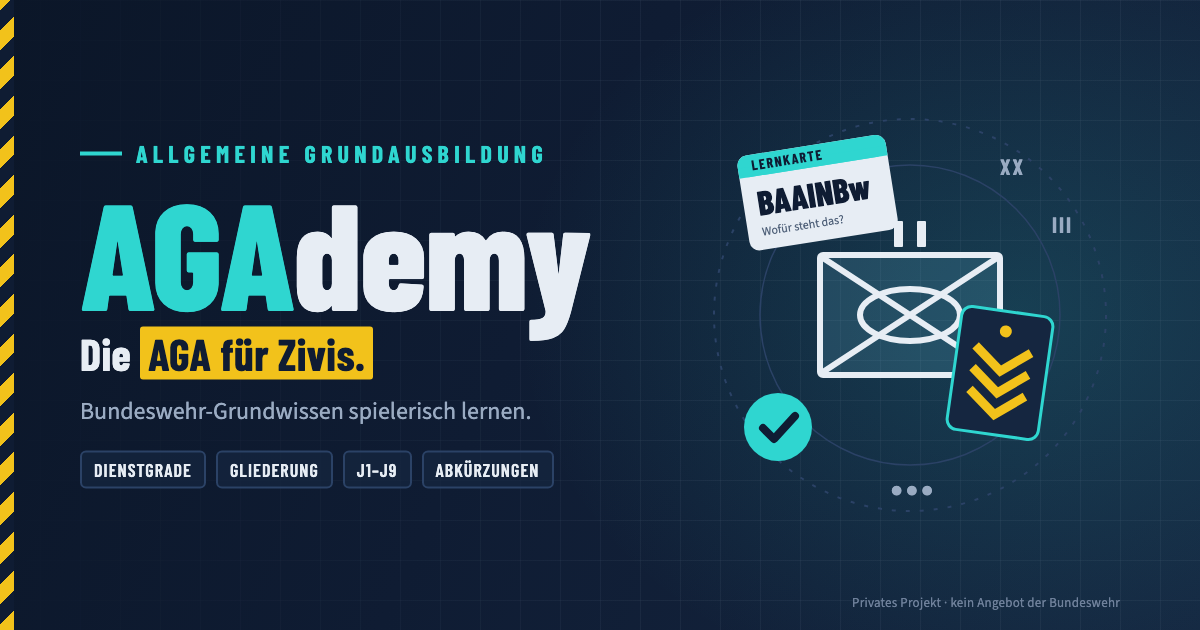
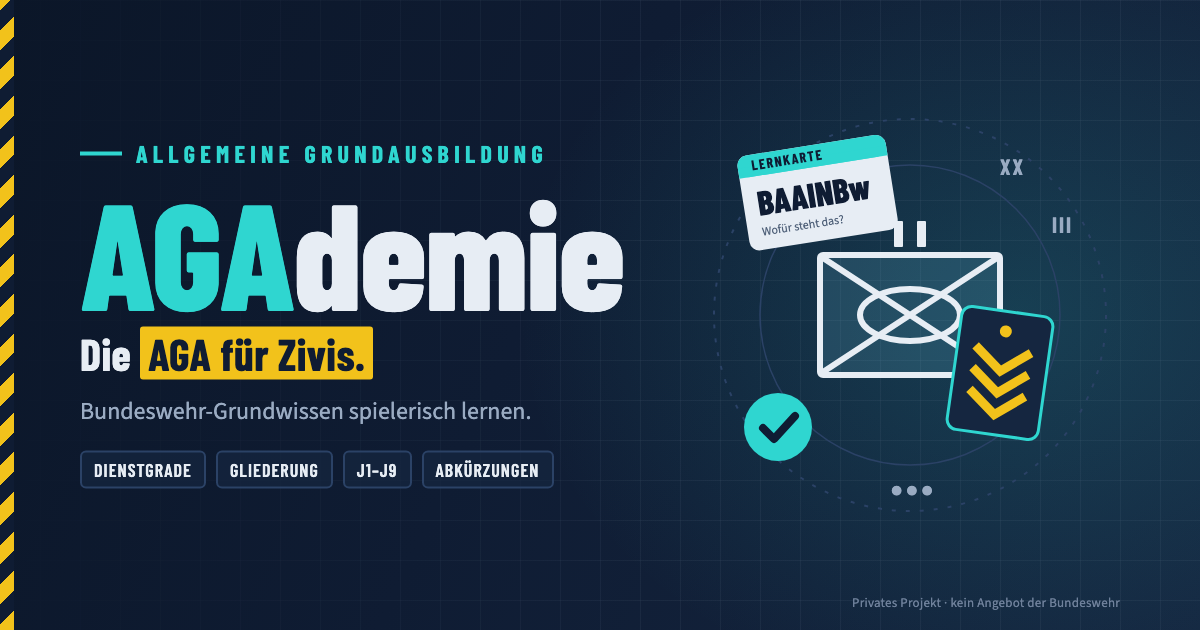
App in AGAdemie umbenennen

Changed region(s): [[0.4317, 0.3016, 0.5242, 0.5429]]

diff --git a/index.html b/index.html
@@ -3,27 +3,27 @@
 <head>
 <meta charset="utf-8">
 <meta name="viewport" content="width=device-width, initial-scale=1, viewport-fit=cover">
-<title>AGAdemy</title>
+<title>AGAdemie</title>
 <meta name="description" content="Privates Projekt: Bundeswehr-Grundwissen für Zivilisten. Kein Angebot der Bundeswehr oder des BMVg.">
 <meta name="theme-color" content="#0f1c33">
 <link rel="icon" href="icons/favicon.ico" sizes="48x48">
 <link rel="icon" href="icons/favicon.svg" type="image/svg+xml">
 <link rel="apple-touch-icon" href="icons/apple-touch-icon.png">
 <link rel="manifest" href="icons/site.webmanifest">
-<meta name="apple-mobile-web-app-title" content="AGAdemy">
+<meta name="apple-mobile-web-app-title" content="AGAdemie">
 <meta name="mobile-web-app-capable" content="yes">
 <meta property="og:type" content="website">
-<meta property="og:site_name" content="AGAdemy">
+<meta property="og:site_name" content="AGAdemie">
 <meta property="og:url" content="https://florianwilhelm.info/agademy/">
-<meta property="og:title" content="AGAdemy: Die AGA für Zivis">
+<meta property="og:title" content="AGAdemie: Die AGA für Zivis">
 <meta property="og:description" content="Bundeswehr-Grundwissen spielerisch lernen. Privates Projekt, kein Angebot der Bundeswehr.">
 <meta property="og:image" content="https://florianwilhelm.info/agademy/social/banner-1200x630.png">
 <meta property="og:image:width" content="1200">
 <meta property="og:image:height" content="630">
-<meta property="og:image:alt" content="AGAdemy: Die AGA für Zivis. Bundeswehr-Grundwissen spielerisch lernen.">
+<meta property="og:image:alt" content="AGAdemie: Die AGA für Zivis. Bundeswehr-Grundwissen spielerisch lernen.">
 <meta property="og:locale" content="de_DE">
 <meta name="twitter:card" content="summary_large_image">
-<meta name="twitter:title" content="AGAdemy: Die AGA für Zivis">
+<meta name="twitter:title" content="AGAdemie: Die AGA für Zivis">
 <meta name="twitter:description" content="Bundeswehr-Grundwissen spielerisch lernen. Privates Projekt, kein Angebot der Bundeswehr.">
 <meta name="twitter:image" content="https://florianwilhelm.info/agademy/social/banner-1200x630.png">
 <link rel="preload" href="fonts/source-sans-3.woff2" as="font" type="font/woff2" crossorigin>
@@ -205,7 +205,7 @@ nav.tabbar button[aria-current="page"]{color:var(--ink);box-shadow:inset 0 3px 0
 <body>
 <div class="app">
   <header class="top">
-    <div style="flex:1"><h1>AGAdemy <span class="ver" id="ver"></span></h1><p>Die AGA für Zivis: Bundeswehr-Grundwissen</p></div>
+    <div style="flex:1"><h1>AGAdemie <span class="ver" id="ver"></span></h1><p>Die AGA für Zivis: Bundeswehr-Grundwissen</p></div>
     <div class="tbtns"><button class="helpbtn inst" id="instBtn" aria-label="App installieren" title="App installieren" hidden><svg viewBox="0 0 24 24" width="22" height="22" aria-hidden="true"><path d="M12 4v11m-4.5-4.5L12 15l4.5-4.5M5 19.5h14" fill="none" stroke="currentColor" stroke-width="2.2" stroke-linecap="round" stroke-linejoin="round"/></svg></button>
     <button class="helpbtn" data-mode="help" aria-label="Hilfe" title="Hilfe"><svg viewBox="0 0 24 24" width="22" height="22" aria-hidden="true"><circle cx="12" cy="12" r="10" fill="none" stroke="currentColor" stroke-width="2"/><path d="M9.2 9.3a2.9 2.9 0 1 1 4.3 2.5c-.9.5-1.5 1.1-1.5 2.2" fill="none" stroke="currentColor" stroke-width="2" stroke-linecap="round"/><circle cx="12" cy="17.3" r="1.2" fill="currentColor"/></svg></button></div>
   </header>
@@ -1157,7 +1157,7 @@ for(const q in LESSON_OF_Q) if(!CARDS.some(c=>c.q===q)) console.error('Lektionsz
 CARDS.forEach(c=>c.lesson=LESSON_OF_Q[c.q]||LESSON_OF_KIND[c.kind]||LESSON_OF_DECK[c.deck]);
 
 /* ---------- Speicher ---------- */
-const KEY='agademy:v1';
+const KEY='agademie:v1';
 let store={box:{},read:{}};
 try{const s=localStorage.getItem(KEY);if(s) store=JSON.parse(s)||store;if(!store.box) store.box={};if(!store.read) store.read={}}catch(e){}
 for(const id in store.box) if(!CARD_IDS.has(id)) delete store.box[id]; // Lernstand entfernter oder geänderter Karten (und alte positionsbasierte IDs) verwerfen
@@ -1346,9 +1346,9 @@ function install(){ // Browser mit eigenem Dialog fragen direkt, sonst führt de
 function renderHelp(){
   const n=CARDS.length;
   return `<div class="help"><button class="back" data-back="1">Zurück zu ${{basics:'Grundlagen',learn:'Lernkarten',quiz:'Quiz',ref:'Nachschlagen'}[MODES[helpFrom.split('/')[1]]]}</button>
-  <h2>Was ist AGAdemy?</h2>
-  <p>AGA steht für Allgemeine Grundausbildung. AGAdemy ist die zivile Variante: für alle, die mit der Bundeswehr zusammenarbeiten und ihre Sprache und Strukturen verstehen wollen.</p>
-  <div class="callout"><strong>Kein Angebot der Bundeswehr.</strong> AGAdemy ist ein privates Projekt. Es ist kein Angebot, keine Veröffentlichung und keine offizielle Anwendung der Bundeswehr, des Bundesministeriums der Verteidigung oder einer anderen Dienststelle und steht mit ihnen in keiner Verbindung. Alle Inhalte beruhen auf öffentlich zugänglichen Quellen und können Fehler enthalten. Verbindlich sind allein die offiziellen Quellen. Fehler gefunden? Gern als <a href="https://github.com/FlorianWilhelm/agademy/issues">Issue auf GitHub</a> melden.</div>
+  <h2>Was ist AGAdemie?</h2>
+  <p>AGA steht für Allgemeine Grundausbildung. AGAdemie ist die zivile Variante: für alle, die mit der Bundeswehr zusammenarbeiten und ihre Sprache und Strukturen verstehen wollen.</p>
+  <div class="callout"><strong>Kein Angebot der Bundeswehr.</strong> AGAdemie ist ein privates Projekt. Es ist kein Angebot, keine Veröffentlichung und keine offizielle Anwendung der Bundeswehr, des Bundesministeriums der Verteidigung oder einer anderen Dienststelle und steht mit ihnen in keiner Verbindung. Alle Inhalte beruhen auf öffentlich zugänglichen Quellen und können Fehler enthalten. Verbindlich sind allein die offiziellen Quellen. Fehler gefunden? Gern als <a href="https://github.com/FlorianWilhelm/agademy/issues">Issue auf GitHub</a> melden.</div>
   <h2>Inhalte der App</h2>
   <p>Grundwissen über die Bundeswehr: ihre Stellung im Staat, NATO und Heimatschutz, Dienstgrade und Abzeichen, Uniformen, Waffen- und Barettfarben, Gliederung, Stabsabteilungen, Behörden und Haushalt, Anrede, Abkürzungen, NATO-Alphabet, Geheimschutz und die Begriffe der militärischen Digitalisierung. Insgesamt ${n} Karten zu ${LESSONS.length} Lektionen.</p>
   <h3>Grundlagen</h3>
@@ -1365,7 +1365,7 @@ function renderHelp(){
   <h2>Wie belastbar die Inhalte sind</h2>
   <p>Dienstgrade, Gliederung und Behördenangaben stammen von bundeswehr.de, Abzeichen und Dienstgradbezeichnungen aus der Anordnung des Bundespräsidenten über die Dienstgradbezeichnungen und die Uniform (2021), Waffen- und Barettfarben aus der BMVg-Broschüre „Bekleidung und Uniformen der Bundeswehr“ (April 2026), Rechtsrahmen aus Grundgesetz, Soldatengesetz, Parlamentsbeteiligungsgesetz und Wehrdienst-Modernisierungsgesetz, NATO-Angaben von nato.int, Disziplinarbefugnis aus der Wehrdisziplinarordnung, Geheimschutz aus dem SÜG und der VSA, Architekturbegriffe u. a. nach Fraunhofer IESE. NATO-Rangcodes folgen STANAG 2116, Größenzeichen NATO APP-6 in deutscher Lesart. Die Abzeichen sind nach der Anordnung des Bundespräsidenten vereinfacht nachgezeichnet. Stärkeangaben sind Größenordnungen, Führungsdienstgrade typische Besetzungen. Stand Oktober 2026.</p>
   <h2 id="app">Als App installieren</h2>
-  ${standalone()?'<p>AGAdemy läuft gerade als App. Nach dem ersten Öffnen funktioniert sie auch ohne Internet.</p>':`<p>AGAdemy lässt sich wie eine App auf den Startbildschirm legen. Sie öffnet sich dann ohne Browserleiste und funktioniert nach dem ersten Öffnen auch ohne Internet.</p>
+  ${standalone()?'<p>AGAdemie läuft gerade als App. Nach dem ersten Öffnen funktioniert sie auch ohne Internet.</p>':`<p>AGAdemie lässt sich wie eine App auf den Startbildschirm legen. Sie öffnet sich dann ohne Browserleiste und funktioniert nach dem ersten Öffnen auch ohne Internet.</p>
   ${installEvt?'<button class="btn" id="install" style="flex:none;padding:10px 14px;font-size:16px;margin-bottom:10px">Jetzt installieren</button>':''}
   <p><strong>iPhone und iPad:</strong> In Safari unten (bzw. oben) auf das Teilen-Symbol tippen, dann „Zum Home-Bildschirm“ und „Hinzufügen“.</p>
   <p><strong>Android:</strong> In Chrome oben rechts auf das Menü ⋮ tippen, dann „App installieren“ oder „Zum Startbildschirm hinzufügen“.</p>
@@ -1390,7 +1390,7 @@ function render(){
   if(mode==='ref'&&refTab==='abz') setHl(hl);
   spy();
   const sub=lesson&&mode==='basics'?LESSONS.find(l=>l.id===lesson).t:mode==='ref'?v.querySelector('[aria-pressed="true"]').textContent:{basics:'Grundlagen',learn:'Lernkarten',quiz:'Quiz',help:'Hilfe'}[mode];
-  document.title=sub+' · AGAdemy';
+  document.title=sub+' · AGAdemie';
 }
 function filterGloss(){
   const q=glossQ.trim().toLowerCase();let any=false;

diff --git a/social/banner.html b/social/banner.html
@@ -1,6 +1,6 @@
 <!doctype html>
 <html lang="de"><head><meta charset="utf-8">
-<title>AGAdemy Banner</title>
+<title>AGAdemie Banner</title>
 <link rel="preconnect" href="https://fonts.googleapis.com">
 <link href="https://fonts.googleapis.com/css2?family=Barlow+Condensed:wght@600;700;800&family=Source+Sans+3:wght@400;600&display=block" rel="stylesheet">
 <style>
@@ -41,7 +41,7 @@ h1 span{color:var(--accent)}
   <div class="grid"></div><div class="stripe"></div>
   <div class="txt">
     <div class="kicker">Allgemeine Grundausbildung</div>
-    <h1><span>AGA</span>demy</h1>
+    <h1><span>AGA</span>demie</h1>
     <div class="tag">Die <em>AGA für Zivis.</em></div>
     <div class="sub">Bundeswehr-Grundwissen spielerisch lernen.</div>
     <div class="chips"><b>Dienstgrade</b><b>Gliederung</b><b>J1–J9</b><b>Abkürzungen</b></div>

diff --git a/sw.js b/sw.js
@@ -1,7 +1,7 @@
-// Service Worker: macht AGAdemy offline nutzbar.
+// Service Worker: macht AGAdemie offline nutzbar.
 // Seite: zuerst aus dem Netz (damit Updates sofort ankommen), sonst aus dem Cache.
 // Icons und Schriften: aus dem Cache, im Hintergrund aktualisiert.
-const CACHE='agademy-v4';
+const CACHE='agademie-v1';
 const CORE=['./','icons/site.webmanifest','icons/favicon.svg','icons/favicon.ico','icons/apple-touch-icon.png','icons/icon-192.png','icons/icon-512.png',
   'fonts/barlow-condensed-500.woff2','fonts/barlow-condensed-600.woff2','fonts/barlow-condensed-700.woff2','fonts/source-sans-3.woff2'];
 

diff --git a/CHANGELOG.md b/CHANGELOG.md
@@ -6,6 +6,7 @@ per `changes.sh` in `index.html`, die Hilfe-Seite der App zeigt sie an.
 
 ## Unveröffentlicht
 
+- Die App heißt jetzt AGAdemie statt AGAdemy, passend zum deutschen Wort Akademie. Der Lernstand beginnt dabei einmalig von vorn
 - Lektion „Anrede und Umgang“: neuer Abschnitt „Sprache im Dienst“ mit dem Wichtigsten zuerst, knappen Formeln, direktem Feedback und Entscheidungsfreude, dazu drei neue Quizfragen
 - Lektion „Anrede und Umgang“: Einleitung zu den ungeschriebenen Regeln und neuer Abschnitt „Auftreten“ mit Händen aus den Taschen, Nicht-Anlehnen, Händedruck und Grußpflicht, dazu drei neue Quizfragen. „Gelöbnis, Eid und Zeremonien“ steht jetzt vor den ungeschriebenen Regeln
 

diff --git a/.claude/skills/release/SKILL.md b/.claude/skills/release/SKILL.md
@@ -1,6 +1,6 @@
 ---
 name: release
-description: Neue AGAdemy-Version veröffentlichen. dev nach main mergen, Changelog prüfen, taggen, pushen und GitHub-Release anlegen.
+description: Neue AGAdemie-Version veröffentlichen. dev nach main mergen, Changelog prüfen, taggen, pushen und GitHub-Release anlegen.
 argument-hint: "[version, z. B. 0.3]"
 disable-model-invocation: true
 ---

diff --git a/README.md b/README.md
@@ -1,8 +1,8 @@
-# AGAdemy
+# AGAdemie
 
 **Die AGA für Zivis.** Bundeswehr-Grundwissen spielerisch lernen.
 
-AGA steht für Allgemeine Grundausbildung. AGAdemy ist die zivile Variante:
+AGA steht für Allgemeine Grundausbildung. AGAdemie ist die zivile Variante:
 für alle, die mit der Bundeswehr zusammenarbeiten und ihre Sprache und
 Strukturen verstehen wollen.
 

diff --git a/CLAUDE.md b/CLAUDE.md
@@ -1,4 +1,4 @@
-# AGAdemy
+# AGAdemie
 
 ## Branches und Releases
 
